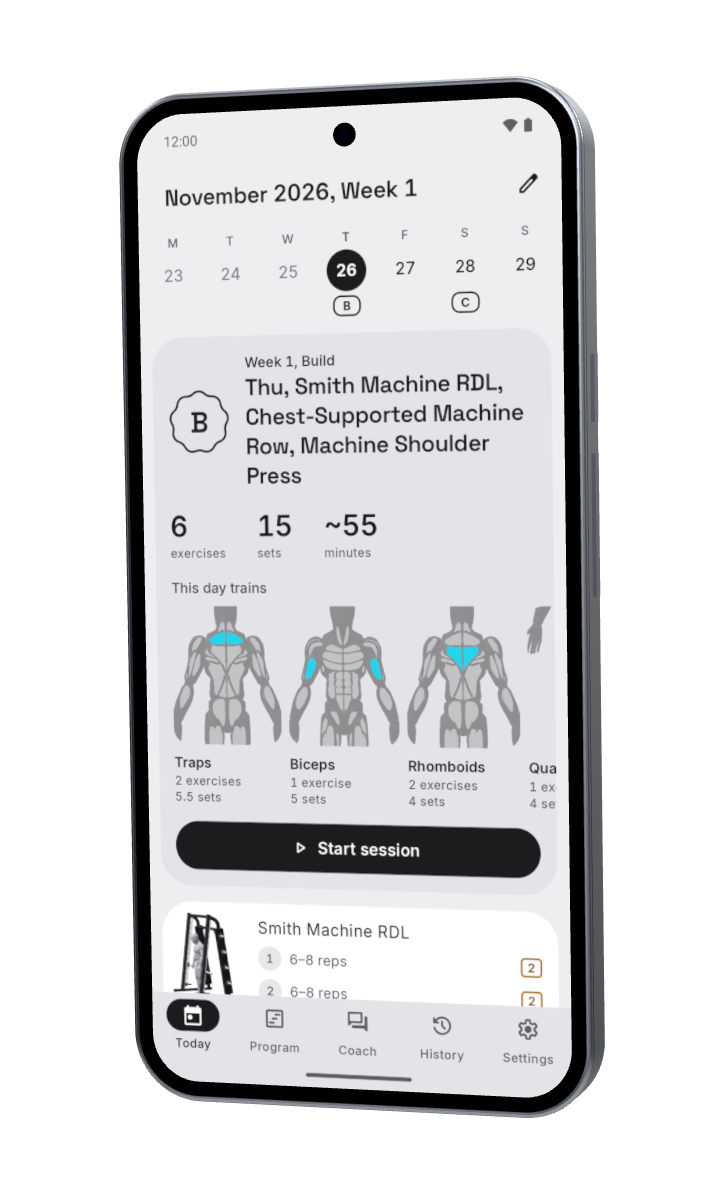
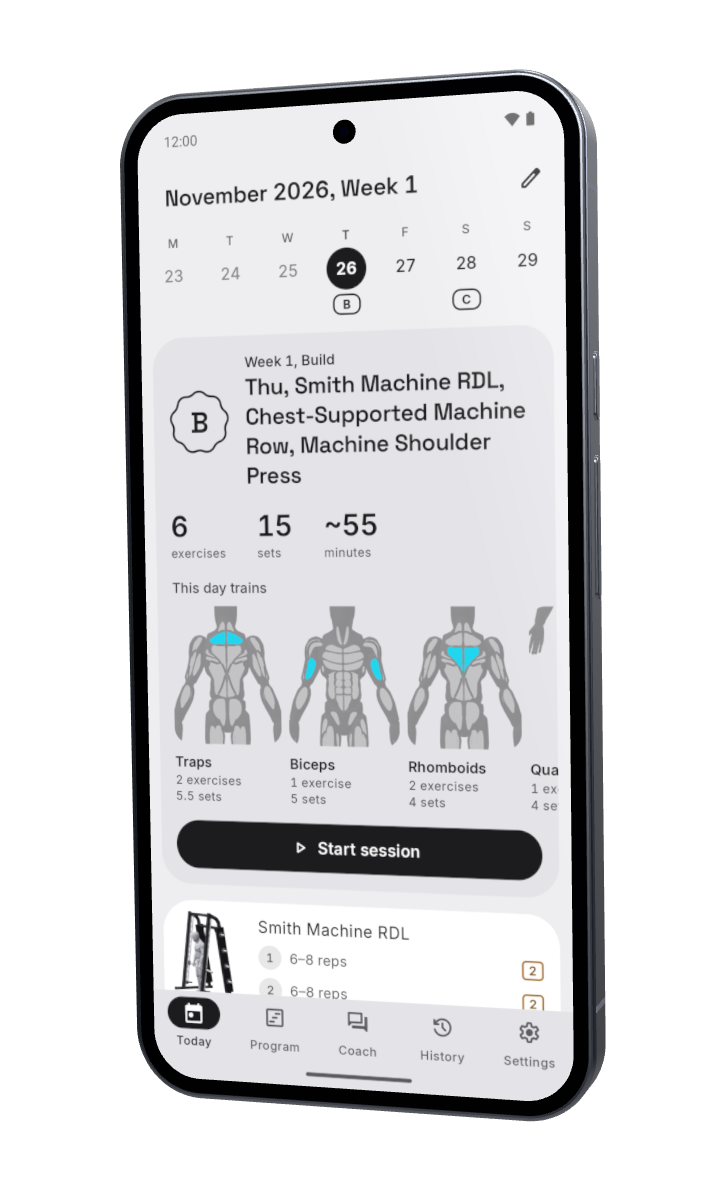
feat: give the phone more detail and depth, and turn it full circle (#571)
Owner's notes on the first pass. The phone is now a dark one with a taller
camera bar, painted lenses, the flash and sensor in the bar's metal, antenna
lines, rounded buttons and a port. A shadow, a pool of light and a fading grid
of dots stand it off the page, and the screen's glass throws back a band of
light as it turns. The turn transition goes once all the way round. The stage
is pinned where it already stands, so it no longer rides up as the scroll
begins.

diff --git a/src/phone/phone.js b/src/phone/phone.js
@@ -3,8 +3,10 @@
 // it carries no maker's logo. Lengths are millimetres.
 import {
   BoxGeometry,
+  CanvasTexture,
   CircleGeometry,
   DataTexture,
+  DirectionalLight,
   ExtrudeGeometry,
   Group,
   Mesh,
@@ -13,13 +15,13 @@ import {
   NeutralToneMapping,
   PerspectiveCamera,
   PMREMGenerator,
-  RingGeometry,
   Scene,
   ShaderMaterial,
   Shape,
   ShapeGeometry,
   SRGBColorSpace,
   TextureLoader,
+  TorusGeometry,
   WebGLRenderer,
 } from "three";
 import { RoomEnvironment } from "three/addons/environments/RoomEnvironment.js";
@@ -32,7 +34,7 @@ const CORNER = 10.5;
 const BEZEL = 3.2;
 const SCREEN_WIDTH = WIDTH - 2 * BEZEL;
 const SCREEN_HEIGHT = (SCREEN_WIDTH * 1428) / 640;
-const FIELD_OF_VIEW = 22;
+const FIELD_OF_VIEW = 30;
 
 /** How the phone stands, in radians: `back` opens the page, `front` is where it rests. */
 export const POSES = {
@@ -76,68 +78,178 @@ function panel(width, height, radius) {
 
 const SCREEN_VERTEX = `
   varying vec2 vUv;
+  varying float vTurn;
   void main() {
     vUv = uv;
+    vTurn = normalize(normalMatrix * normal).x;
     gl_Position = projectionMatrix * modelViewMatrix * vec4(position, 1.0);
   }
 `;
 
-// The screen lights itself: no lamp or tone mapping changes the app's colours.
+// The screen lights itself: no lamp or tone mapping changes the app's colours. The glass over it
+// throws back one soft band of light, which crosses the screen as the phone turns.
 const SCREEN_FRAGMENT = `
   uniform sampler2D from;
   uniform sampler2D to;
   uniform float blend;
   varying vec2 vUv;
+  varying float vTurn;
   void main() {
-    gl_FragColor = vec4(mix(texture2D(from, vUv).rgb, texture2D(to, vUv).rgb, blend), 1.0);
+    vec3 shown = mix(texture2D(from, vUv).rgb, texture2D(to, vUv).rgb, blend);
+    float across = vUv.x * 0.8 + vUv.y * 0.45 - 0.2 + vTurn * 2.2;
+    float glare = smoothstep(0.0, 0.3, across) * (1.0 - smoothstep(0.3, 0.75, across));
+    gl_FragColor = vec4(shown + glare * 0.05, 1.0);
     #include <colorspace_fragment>
   }
 `;
 
+/** A camera lens seen from above, painted: the glass's rings, its coating and the light on it. */
+function lensFace(periscope) {
+  const size = 256;
+  const canvas = document.createElement("canvas");
+  canvas.width = canvas.height = size;
+  const pen = canvas.getContext("2d");
+  pen.translate(size / 2, size / 2);
+  const unit = size / 2;
+  const ring = (radius, width, colour) => {
+    pen.beginPath();
+    pen.arc(0, 0, radius * unit, 0, 2 * Math.PI);
+    pen.lineWidth = width * unit;
+    pen.strokeStyle = colour;
+    pen.stroke();
+  };
+  const glow = (x, y, radius, colour) => {
+    const fade = pen.createRadialGradient(x * unit, y * unit, 0, x * unit, y * unit, radius * unit);
+    fade.addColorStop(0, colour);
+    fade.addColorStop(1, "rgba(0, 0, 0, 0)");
+    pen.fillStyle = fade;
+    pen.fillRect(-unit, -unit, size, size);
+  };
+
+  pen.fillStyle = "#030305";
+  pen.fillRect(-unit, -unit, size, size);
+  // The barrel's steps, going down into the lens.
+  ring(0.93, 0.05, "#26282d");
+  ring(0.8, 0.03, "#15161a");
+  ring(0.66, 0.05, "#1d1f25");
+  pen.save();
+  pen.beginPath();
+  if (periscope) pen.roundRect(-0.36 * unit, -0.3 * unit, 0.72 * unit, 0.6 * unit, 0.1 * unit);
+  else pen.arc(0, 0, 0.56 * unit, 0, 2 * Math.PI);
+  pen.clip();
+  pen.fillStyle = "#06070c";
+  pen.fillRect(-unit, -unit, size, size);
+  // The coating throws back blue from one side and violet from the other.
+  glow(-0.22, -0.26, 0.6, "rgba(62, 92, 210, 0.75)");
+  glow(0.3, 0.32, 0.42, "rgba(120, 70, 190, 0.4)");
+  pen.restore();
+  if (!periscope) {
+    ring(0.3, 0.03, "#0c0e16");
+    pen.beginPath();
+    pen.arc(0, 0, 0.2 * unit, 0, 2 * Math.PI);
+    pen.fillStyle = "#010102";
+    pen.fill();
+  }
+  glow(-0.3, -0.36, 0.13, "rgba(255, 255, 255, 0.75)");
+  glow(0.2, 0.26, 0.07, "rgba(200, 210, 255, 0.35)");
+
+  const face = new CanvasTexture(canvas);
+  face.colorSpace = SRGBColorSpace;
+  return face;
+}
+
 function buildBack(frame) {
   // Built facing +z, then turned to face away from the screen.
   const back = new Group();
-  const glass = new MeshStandardMaterial({ color: 0x7d848e, roughness: 0.5, metalness: 0.15 });
-  const visor = new MeshStandardMaterial({ color: 0x050507, roughness: 0.08, metalness: 0.6 });
-  const rim = new MeshStandardMaterial({ color: 0x6a6e76, roughness: 0.25, metalness: 1 });
-  const lens = new MeshStandardMaterial({ color: 0x020204, roughness: 0.02, metalness: 1 });
-  const iris = new MeshStandardMaterial({ color: 0x24345c, roughness: 0.15, metalness: 0.9 });
-  const glint = new MeshBasicMaterial({ color: 0x8f9bb5, transparent: true, opacity: 0.55 });
+  const glass = new MeshStandardMaterial({ color: 0x2d2e31, roughness: 0.4, metalness: 0.25 });
+  const visor = new MeshStandardMaterial({ color: 0x040405, roughness: 0.06, metalness: 0.7 });
+  const rim = new MeshStandardMaterial({ color: 0x4a4d53, roughness: 0.2, metalness: 1 });
+  const dark = new MeshStandardMaterial({ color: 0x0b0c0e, roughness: 0.35, metalness: 0.4 });
 
-  const cover = new Mesh(panel(WIDTH - 2.6, HEIGHT - 2.6, CORNER - 1.3), glass);
-  cover.position.z = 0.02;
+  const cover = new Mesh(slab(WIDTH - 2.4, HEIGHT - 2.4, 0.3, CORNER - 1.2, 0.12), glass);
+  cover.position.z = -0.12;
   back.add(cover);
 
-  // The camera bar: a raised pill across the upper back, with a dark glass visor set in it.
+  // The camera bar: a pill standing well off the upper back. Dark glass covers the lenses, and
+  // the flash and the temperature sensor sit in the metal at its end.
   const bar = new Group();
-  bar.position.y = HEIGHT / 2 - 25;
-  bar.add(new Mesh(slab(55, 21, 2.6, 10.5, 0.7), frame));
-  const pane = new Mesh(slab(50.6, 16.6, 0.5, 8.3, 0.2), visor);
-  pane.position.z = 2.45;
+  const tall = 3.3;
+  bar.position.y = HEIGHT / 2 - 25.5;
+  bar.add(new Mesh(slab(56, 22, tall, 11, 0.55), frame));
+  const pane = new Mesh(slab(42.4, 19.6, 0.4, 9.8, 0.15), visor);
+  pane.position.set(-6, 0, tall - 0.22);
   bar.add(pane);
 
-  const top = 2.97;
+  const onGlass = tall + 0.19;
   const disc = (radius, material, x, y, z) => {
-    const mesh = new Mesh(new CircleGeometry(radius, 48), material);
-    mesh.position.set(x, y, top + z);
+    const mesh = new Mesh(new CircleGeometry(radius, 56), material);
+    mesh.position.set(x, y, z);
     bar.add(mesh);
+    return mesh;
   };
-  for (const [x, radius] of [[-15.4, 5.6], [-2.6, 5.6], [9.6, 4.8]]) {
-    const ring = new Mesh(new RingGeometry(radius - 0.7, radius, 48), rim);
-    ring.position.set(x, 0, top + 0.01);
-    bar.add(ring);
-    disc(radius - 0.7, lens, x, 0, 0.005);
-    disc(radius * 0.5, iris, x, 0, 0.012);
-    disc(radius * 0.26, lens, x, 0, 0.018);
-    disc(radius * 0.07, glint, x - radius * 0.3, radius * 0.32, 0.024);
+  const round = lensFace(false);
+  for (const [x, radius, face] of [[-18.6, 5.3, round], [-6, 6.3, round], [6.4, 5, lensFace(true)]]) {
+    const lens = new MeshStandardMaterial({ map: face, emissiveMap: face, emissive: 0xffffff, emissiveIntensity: 0.5, roughness: 0.08, metalness: 0.2 });
+    disc(radius, lens, x, 0, onGlass + 0.01);
+    const edge = new Mesh(new TorusGeometry(radius, 0.28, 12, 56), rim);
+    edge.position.set(x, 0, onGlass);
+    bar.add(edge);
   }
-  disc(1.9, new MeshStandardMaterial({ color: 0xe9dfc4, roughness: 0.5 }), 19.6, 3.4, 0.01);
-  disc(1.5, rim, 19.6, -3.4, 0.01);
+  // The flash above the sensor.
+  const onMetal = tall + 0.01;
+  disc(2.5, dark, 21.2, 4, onMetal);
+  disc(2.15, new MeshStandardMaterial({ color: 0xf4f1e8, roughness: 0.35, emissive: 0xf4f1e8, emissiveIntensity: 0.35 }), 21.2, 4, onMetal + 0.01);
+  disc(0.75, new MeshStandardMaterial({ color: 0xf3df9a, roughness: 0.5, emissive: 0xf3df9a, emissiveIntensity: 0.4 }), 21.2, 4, onMetal + 0.02);
+  disc(2, dark, 21.6, -3.9, onMetal);
+  disc(1.1, visor, 21.6, -3.9, onMetal + 0.01);
+  // A microphone's pinhole in the glass.
+  disc(0.35, dark, 13.2, 0, onGlass + 0.01);
 
   back.add(bar);
   back.rotation.y = Math.PI;
   back.position.z = -DEPTH / 2;
   return back;
+}
+
+/** What the frame carries: the buttons, the antenna lines, and the port and speakers below. */
+function buildEdges(frame) {
+  const edges = new Group();
+  const line = new MeshStandardMaterial({ color: 0x55585e, roughness: 0.6, metalness: 0.2 });
+  const hollow = new MeshStandardMaterial({ color: 0x050506, roughness: 0.5, metalness: 0.3 });
+  const flat = DEPTH - 1.8;
+
+  // Power above volume, on the right as the screen faces the reader.
+  for (const [y, length] of [[31, 10], [10.5, 21]]) {
+    const button = new Mesh(slab(2.3, length, 1.1, 1.15, 0.3), frame);
+    button.rotation.y = Math.PI / 2;
+    button.position.set(WIDTH / 2 - 0.55, y, 0);
+    edges.add(button);
+  }
+  // Antenna lines: thin bands across the metal, near each corner and on the top edge.
+  for (const side of [-1, 1]) {
+    for (const y of [HEIGHT / 2 - 17, -HEIGHT / 2 + 17]) {
+      const band = new Mesh(new BoxGeometry(0.06, 0.9, flat), line);
+      band.position.set(side * (WIDTH / 2), y, 0);
+      edges.add(band);
+    }
+  }
+  for (const [x, y] of [[-14, HEIGHT / 2], [16, -HEIGHT / 2]]) {
+    const band = new Mesh(new BoxGeometry(0.9, 0.06, flat), line);
+    band.position.set(x, y, 0);
+    edges.add(band);
+  }
+  // Below: the port between a speaker and a microphone slot. On top: one more pinhole.
+  const slot = (width, height, x, y, up) => {
+    const mesh = new Mesh(panel(width, height, height / 2), hollow);
+    mesh.rotation.x = (up * -Math.PI) / 2;
+    mesh.position.set(x, y + up * 0.01, 0);
+    edges.add(mesh);
+  };
+  slot(8.6, 2.7, 0, -HEIGHT / 2, -1);
+  slot(9.5, 1.3, 15, -HEIGHT / 2, -1);
+  slot(9.5, 1.3, -15, -HEIGHT / 2, -1);
+  slot(1, 1, 12, HEIGHT / 2, 1);
+  return edges;
 }
 
 function buildFront(screen) {
@@ -173,7 +285,7 @@ function buildFront(screen) {
  * Draws the phone into `canvas`, on a clear background. `fill` is the share of the canvas's
  * height the phone takes when it faces the reader.
  */
-export function createPhone(canvas, { fill = 0.8, pixelRatio = 1 } = {}) {
+export function createPhone(canvas, { fill = 0.74, pixelRatio = 1 } = {}) {
   const renderer = new WebGLRenderer({ canvas, alpha: true, antialias: true });
   renderer.setPixelRatio(pixelRatio);
   renderer.toneMapping = NeutralToneMapping;
@@ -191,19 +303,19 @@ export function createPhone(canvas, { fill = 0.8, pixelRatio = 1 } = {}) {
     fragmentShader: SCREEN_FRAGMENT,
   });
 
-  const frame = new MeshStandardMaterial({ color: 0xb4b9c1, roughness: 0.22, metalness: 1 });
+  const frame = new MeshStandardMaterial({ color: 0x74777d, roughness: 0.27, metalness: 1 });
   const phone = new Group();
   const body = new Mesh(slab(WIDTH, HEIGHT, DEPTH, CORNER, 0.9), frame);
   body.position.z = -DEPTH / 2;
-  phone.add(body, buildFront(screen), buildBack(frame));
-  // Power above volume, on the right as the screen faces the reader.
-  for (const [y, length] of [[31, 10], [11, 21]]) {
-    const button = new Mesh(new BoxGeometry(0.9, length, 2.2), frame);
-    button.position.set(WIDTH / 2 + 0.15, y, 0);
-    phone.add(button);
-  }
+  phone.add(body, buildFront(screen), buildBack(frame), buildEdges(frame));
   phone.rotation.order = "YXZ";
   scene.add(phone);
+  // A lamp up and to the left for the matte back, and one behind to catch the frame's edge.
+  const key = new DirectionalLight(0xffffff, 2.2);
+  key.position.set(-90, 140, 220);
+  const edge = new DirectionalLight(0xdfe6ff, 1.4);
+  edge.position.set(160, 40, -60);
+  scene.add(key, edge);
 
   const camera = new PerspectiveCamera(FIELD_OF_VIEW, 1, 10, 4000);
   const loader = new TextureLoader();

diff --git a/src/phone/stage.js b/src/phone/stage.js
@@ -17,13 +17,10 @@ const TRANSITIONS = {
     lean: ({ yaw, pitch, roll }, { drift }) => ({ yaw: yaw + drift * 0.16, pitch: pitch - drift * 0.04, roll }),
     blend: (t) => ease(t),
   },
-  // The phone swings edge-on, and comes back with the new screen.
+  // The phone turns once all the way round, and the new screen is on when its front comes back.
   turn: {
-    duration: 750,
-    lean: (pose, { t, towards }) => ({
-      ...pose,
-      yaw: lerp(pose.yaw, (towards * Math.PI) / 2, Math.sin(Math.PI * ease(t))),
-    }),
+    duration: 900,
+    lean: (pose, { t, towards }) => ({ ...pose, yaw: pose.yaw + towards * 2 * Math.PI * ease(t) }),
     blend: (t) => (t < 0.5 ? 0 : 1),
   },
 };

diff --git a/README.md b/README.md
@@ -62,8 +62,8 @@ drawn from the model by `npm run stills` (it needs Chrome, as the tests do). Run
 the model or a screenshot the home page shows, and commit what it draws.
 
 While the owner picks how a new screen arrives, the page takes `?transition=fade` (the screens
-crossfade and the phone leans with the scroll; the default) or `?transition=turn` (the phone swings
-edge-on and comes back with the new screen).
+crossfade and the phone leans with the scroll; the default) or `?transition=turn` (the phone turns
+once all the way round, and its front comes back with the new screen).
 
 ### The file format pages
 
